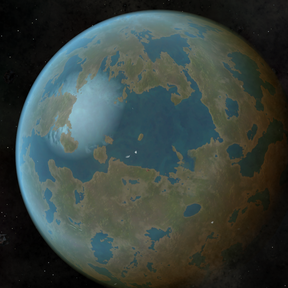
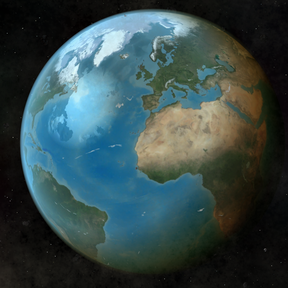
Version 2.1.2

diff --git a/README.md b/README.md
@@ -1,12 +1,20 @@
-In Factorio 2.1, there are new planet renders those are visible from space.
+Planet Settings
+-------
+In Factorio 2.1, there are new planet renders which are visible from space.
 
-These entities have a lot of properties such as 
-cloudiness, 
-rotation seconds, 
-atmosphere color, 
-cloud panning rate 
-etc.
+These entities have a lot of properties such as cloudiness, rotation seconds, atmosphere color, cloud panning rate etc.
 
 But the properties are not modifiable from the game menu, so I wrote this mod to tweak them.
 
+For example, the clouds are too dense in Nauvis, and it makes it difficult to see surface.
+
+So you can decrease cloudiness to 0.01 to see land more clearly.
+
+Also, you can replace Nauvis texture with real Earth image from NASA.
+
 Hope that helps.
+
+Credits
+-------
+- [Earth image from NASA SVS](https://svs.gsfc.nasa.gov/3615/), NASA/Goddard Space Flight Center Scientific Visualization Studio, The Blue Marble Next Generation data is courtesy of Reto Stockli (NASA/GSFC) and NASA's Earth Observatory.
+